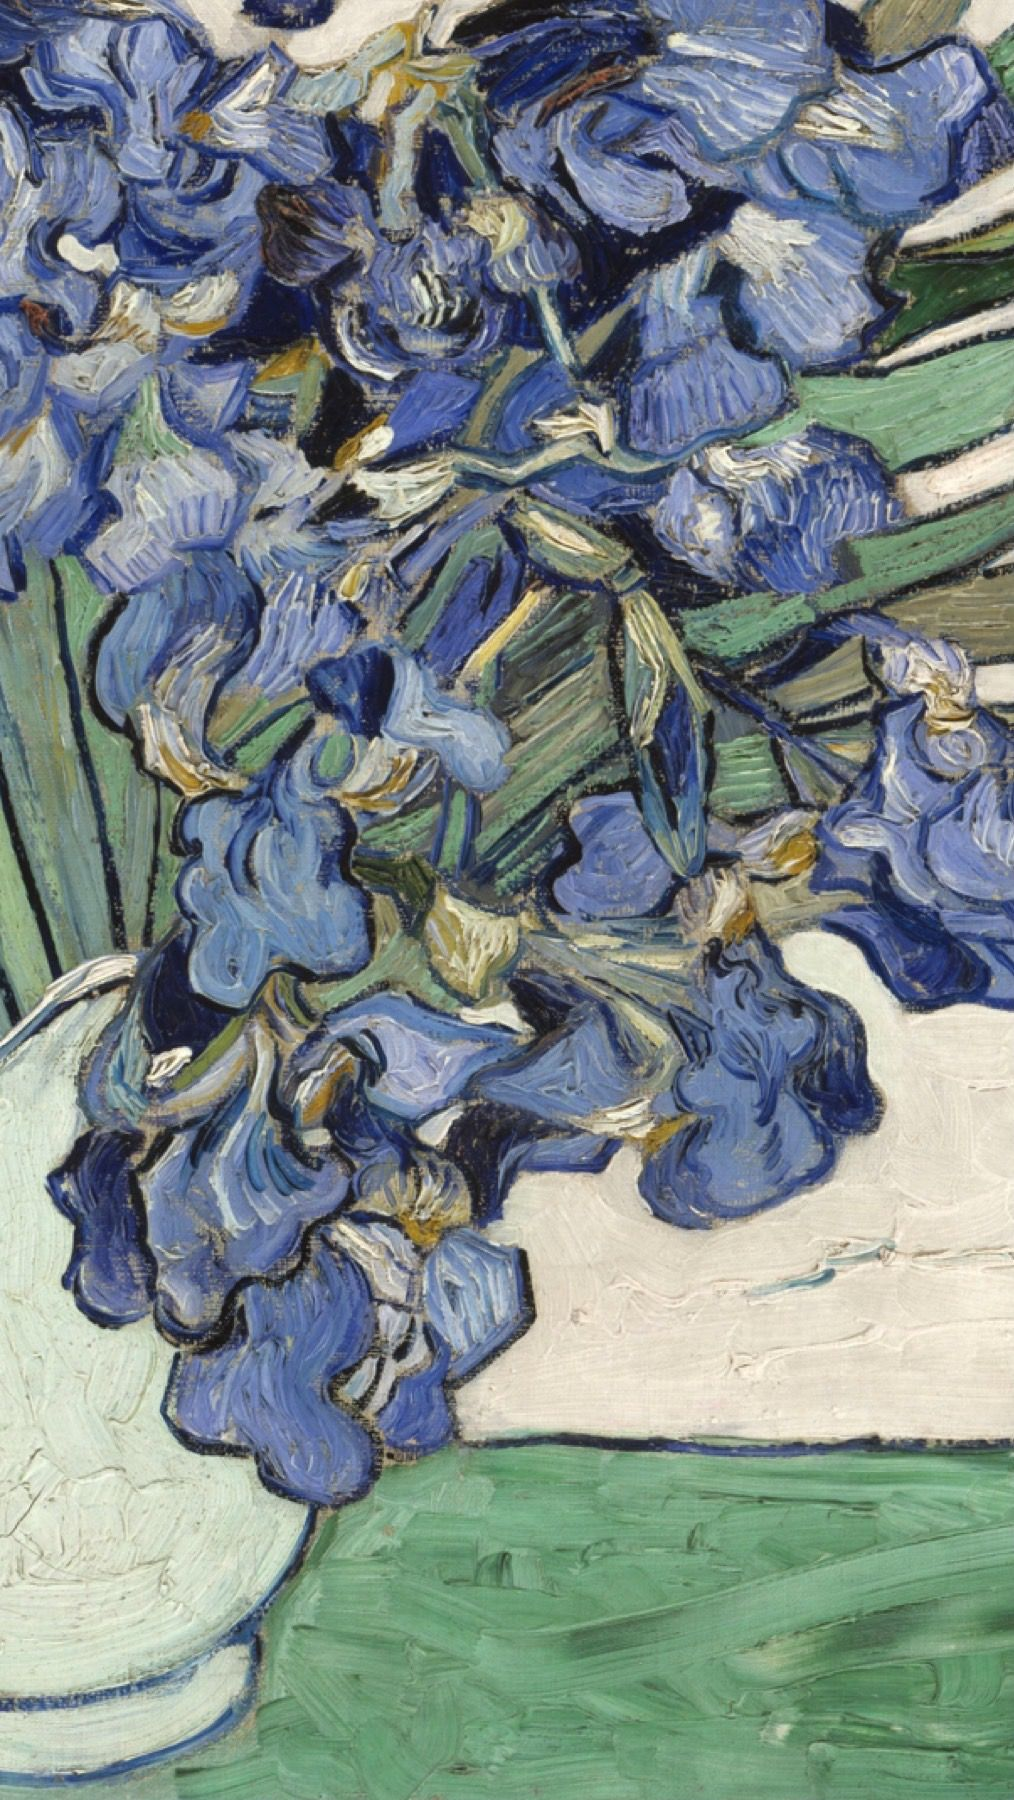
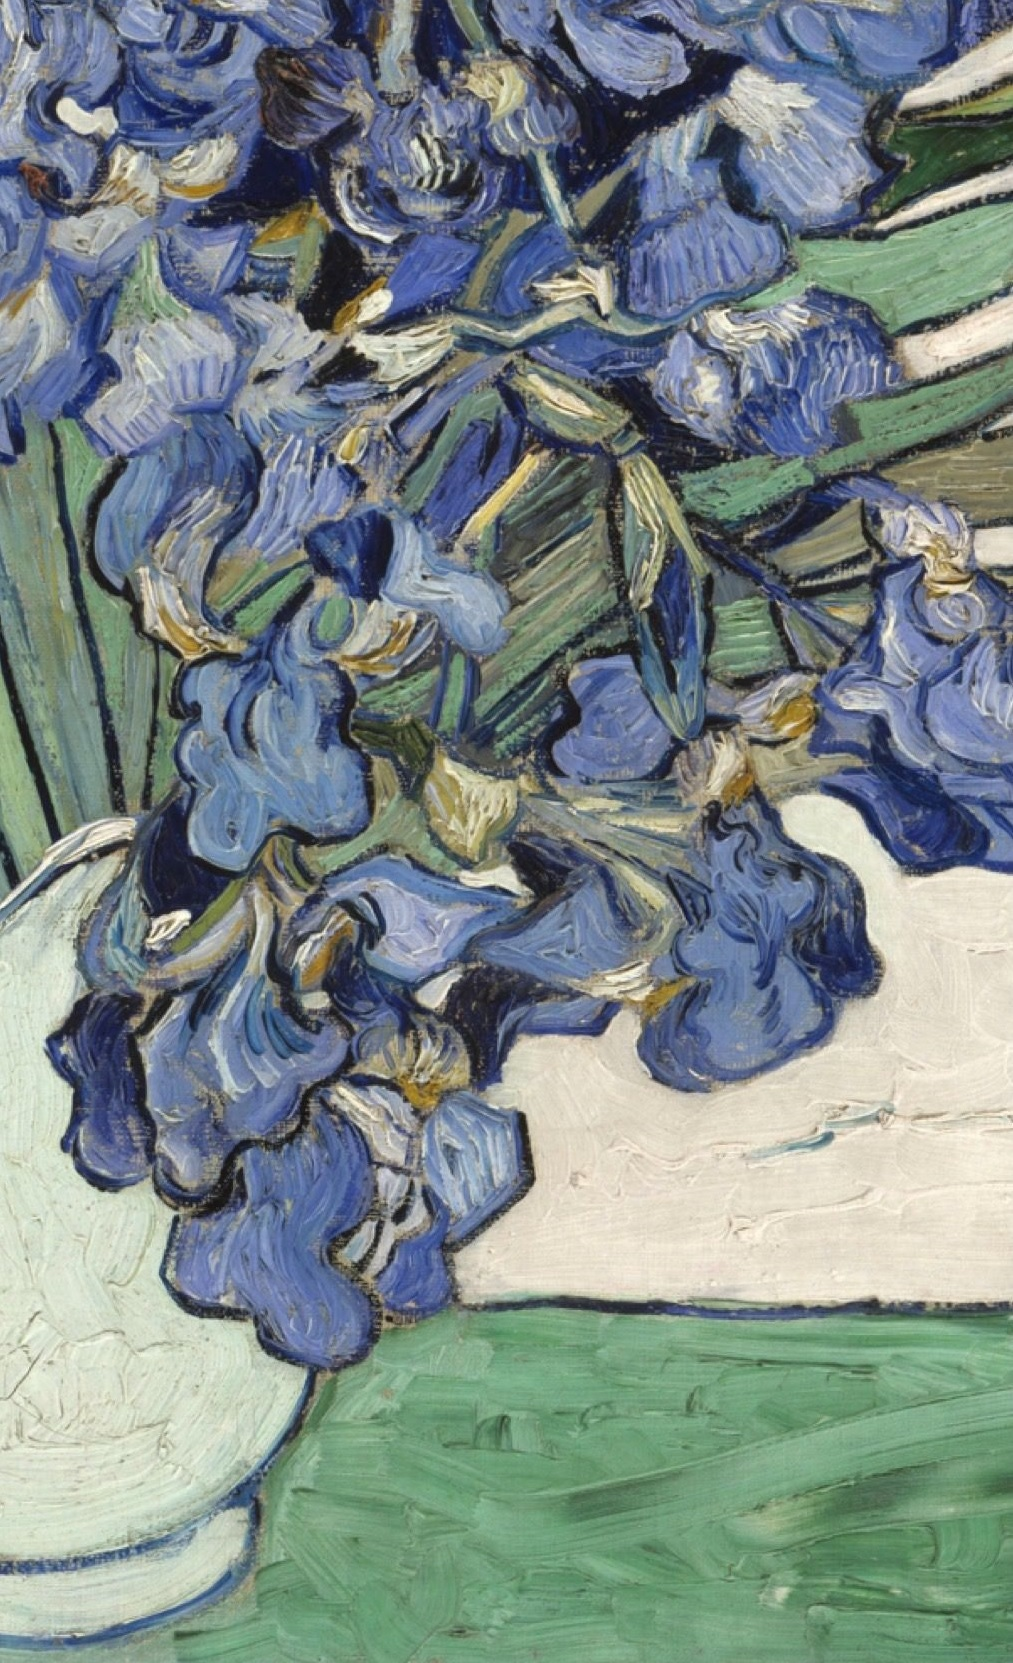
aggiunto recupera password

diff --git a/elemental/src/app/login/login-form/recupera-password/recupera-password.component.html b/elemental/src/app/login/login-form/recupera-password/recupera-password.component.html
@@ -1,0 +1,59 @@
+<section class="vh-100">
+  <div class="container py-3 h-100">
+    <div class="row d-flex justify-content-center align-items-center h-100">
+      <div class="col col-xl-10">
+        <div class="card" style="border-radius: 1rem;">
+          <div class="row g-0">
+            <div class="col-md-6 col-lg-5 d-none d-md-block">
+              <!--              <img src="https://mdbcdn.b-cdn.net/img/Photos/new-templates/bootstrap-login-form/img1.webp"-->
+              <img src="../../../assets/vangogh-2.jpg"
+                   alt="login form" class="imgLogin" style="border-radius: 1rem 0 0 1rem;" />
+            </div>
+            <div class="col-md-6 col-lg-7 d-flex align-items-center">
+              <div class="card-body p-4 p-lg-5 text-black">
+
+                <form [formGroup]="recuperaForm" (ngSubmit)="onSubmit()">
+
+                  <!--                  <div class="d-flex align-items-center mb-3 pb-1">-->
+                  <div class="d-flex align-items-center mb-3 pb-1">
+                    <img class="imgLogo" src="../../../assets/es3_nosf.png" alt="">
+                  </div>
+
+                  <h2 class="fw-normal mb-1 pb-1" style="letter-spacing: 1px;">Recupera password</h2>
+
+                  <div class="form-outline">
+                    <label class="form-label" for="email">Indirizzo email</label>
+                    <input type="email" id="email" class="form-control" formControlName="email"/>
+                  </div>
+
+                  <div class="form-outline mt-3 mb-4">
+                    <label class="form-label" for="password1">Nuova password</label>
+                    <input type="password" id="password1" class="form-control"  formControlName="password1"/>
+                  </div>
+
+                  <div class="form-outline mt-3 mb-4">
+                    <label class="form-label" for="password2">Conferma password</label>
+                    <input type="password" id="password2" class="form-control"  formControlName="password2"/>
+                  </div>
+
+                  <div class="pt-1 mb-4">
+                    <button class="btn btn-dark btn-lg btn-block" type="submit">Cambia password</button>
+                  </div>
+
+<!--                  <a class="small text-muted" (click)="passwordDimenticata()" style="cursor: pointer;">Password dimenticata?</a>-->
+<!--                  <p class="mb-5 pb-lg-2" style="color: #393f81;">Non hai un account?-->
+<!--                    <a (click)="redirectRegister()" style="color: #393f81; position: relative; left: 4%; cursor: pointer;">Registrati qui</a></p>-->
+
+<!--                  <a (click)="terminiAlert()" class="small text-muted" style="cursor: pointer;">Termini e Condizioni</a>-->
+<!--                  <a (click)="policyAlert()" class="small text-muted" style="position: relative; left: 5%; cursor: pointer;">Privacy policy</a>-->
+
+                </form>
+
+              </div>
+            </div>
+          </div>
+        </div>
+      </div>
+    </div>
+  </div>
+</section>

diff --git a/elemental/src/app/login/login-form/recupera-password/recupera-password.component.ts b/elemental/src/app/login/login-form/recupera-password/recupera-password.component.ts
@@ -1,0 +1,70 @@
+import { Component } from '@angular/core';
+import { FormGroup, FormControl } from '@angular/forms';
+import Swal from 'sweetalert2';
+import {Router} from "@angular/router";
+import {UserService} from "../../../../service/user.service";
+
+@Component({
+  selector: 'app-recupera-password',
+  templateUrl: './recupera-password.component.html',
+  styleUrls: ['./recupera-password.component.css']
+})
+export class RecuperaPasswordComponent {
+  recuperaForm: FormGroup;
+  // loginDTO: LoginDTO;
+
+  constructor(private userService: UserService, private router: Router) {
+    this.recuperaForm = new FormGroup({
+      email: new FormControl(''),
+      password1: new FormControl(''),
+      password2: new FormControl('')
+    });
+  }
+
+  ngOnInit() {
+  }
+
+  onSubmit() {
+    let email = this.recuperaForm.get('nome')?.value
+    let password1 = this.recuperaForm.get('password1')?.value
+    let password2 = this.recuperaForm.get('password2')?.value
+
+    if (password1 === password2 && password1 !== '' && email === '') {
+
+    } else {
+      Swal.fire({
+        icon: 'error',
+        title: 'Valori non validi',
+        text: 'I valori inseriti non sono validi. Riprova.'
+      });
+    }
+
+
+  }
+
+  terminiAlert() {
+    Swal.fire({
+      icon: 'info',
+      title: 'Termini e Condizioni',
+      text: 'Accedendo e utilizzando questa piattaforma, accetti di rispettare i seguenti Termini e Condizioni:\n\n1. Non violare i diritti di proprietà intellettuale altrui.\n2. Non diffondere contenuti offensivi, diffamatori o illegali.\n3. Rispettare la privacy degli altri utenti.\n4. Non utilizzare la piattaforma per scopi commerciali senza autorizzazione.\n5. Mantenere la sicurezza del tuo account e non condividere le tue credenziali di accesso.\n\nTi preghiamo di leggere attentamente i Termini e le Condizioni complete disponibili sul nostro sito web.',
+    });
+  }
+
+  policyAlert() {
+    Swal.fire({
+      icon: 'info',
+      title: 'Privacy Policy',
+      text: 'Privacy Policy.'
+    });
+  }
+
+  redirectRegister() {
+    this.router.navigate(['/register'])
+  }
+
+  passwordDimenticata() {
+
+  }
+
+
+}

diff --git a/elemental/src/app/register/register-form/register-form.component.ts b/elemental/src/app/register/register-form/register-form.component.ts
@@ -6,6 +6,7 @@ import Swal from 'sweetalert2';
 import {AnagDTO} from "../../../dto/anagdto";
 import {AnagService} from "../../../service/anag.service";
 import {LoginDTO} from "../../../dto/logindto";
+import {Router} from "@angular/router";
 
  @Component({
   selector: 'app-register-form',
@@ -16,7 +17,7 @@ export class RegisterFormComponent {
    registerForm: FormGroup;
   // loginDTO: LoginDTO;
 
-  constructor(private userService: UserService, private anagService: AnagService) {
+  constructor(private userService: UserService, private anagService: AnagService, private router: Router) {
     this.registerForm = new FormGroup({
       nome: new FormControl(''),
       cognome: new FormControl(''),
@@ -32,9 +33,6 @@ export class RegisterFormComponent {
   }
 
   onSubmit() {
-/*     const nome = this.loginForm.get('nome')?.value;
-
- */
     let nome = this.registerForm.get('nome')?.value
     let cognome = this.registerForm.get('cognome')?.value
     let dataNascita = this.registerForm.get('dataNascita')?.value
@@ -61,8 +59,6 @@ export class RegisterFormComponent {
         })
       });
     });
-
-
   }
 
    terminiAlert() {
@@ -79,6 +75,10 @@ export class RegisterFormComponent {
        title: 'Privacy Policy',
        text: 'Privacy Policy.'
      });
+   }
+
+   changePage() {
+     this.router.navigate(['/login'])
    }
 
 }

diff --git a/elemental/src/app/login/login-form/login-form.component.html b/elemental/src/app/login/login-form/login-form.component.html
@@ -21,7 +21,7 @@
           <div class="row g-0">
             <div class="col-md-6 col-lg-5 d-none d-md-block">
 <!--              <img src="https://mdbcdn.b-cdn.net/img/Photos/new-templates/bootstrap-login-form/img1.webp"-->
-                  <img src="../../../assets/vangogh-2.jpg"
+                  <img src="../../../assets/vangogh-4.jpg"
                    alt="login form" class="imgLogin" style="border-radius: 1rem 0 0 1rem;" />
             </div>
             <div class="col-md-6 col-lg-7 d-flex align-items-center">
@@ -50,7 +50,9 @@
                     <button class="btn btn-dark btn-lg btn-block" type="submit">Login</button>
                   </div>
 
-                  <a class="small text-muted" href="#!">Password dimenticata?</a>
+                  <a class="small text-muted" [routerLink] = "['/recupera-password']" style="cursor: pointer;">Password dimenticata?</a>
+
+
                   <p class="mb-5 pb-lg-2" style="color: #393f81;">Non hai un account?
                     <a (click)="redirectRegister()" style="color: #393f81; position: relative; left: 4%; cursor: pointer;">Registrati qui</a></p>
 
@@ -67,3 +69,6 @@
     </div>
   </div>
 </section>
+
+<router-outlet></router-outlet>
+

diff --git a/elemental/src/app/app.module.ts b/elemental/src/app/app.module.ts
@@ -10,6 +10,7 @@ import { ReactiveFormsModule } from '@angular/forms';
 import {HttpClientModule} from "@angular/common/http";
 import { RegisterComponent } from './register/register.component';
 import {RegisterFormComponent} from "./register/register-form/register-form.component";
+import { RecuperaPasswordComponent } from './login/login-form/recupera-password/recupera-password.component';
 
 @NgModule({
   declarations: [
@@ -17,7 +18,8 @@ import {RegisterFormComponent} from "./register/register-form/register-form.comp
     LoginComponent,
     LoginFormComponent,
     RegisterComponent,
-    RegisterFormComponent
+    RegisterFormComponent,
+    RecuperaPasswordComponent
   ],
   imports: [
     BrowserModule,

diff --git a/elemental/src/app/app-routing.module.ts b/elemental/src/app/app-routing.module.ts
@@ -2,9 +2,11 @@ import { NgModule } from '@angular/core';
 import { RouterModule, Routes } from '@angular/router';
 import { LoginComponent } from './login/login.component';
 import {RegisterComponent} from "./register/register.component";
+import {RecuperaPasswordComponent} from "./login/login-form/recupera-password/recupera-password.component";
 
 const routes: Routes = [
   {path: 'login', component: LoginComponent},
+  {path: 'recupera-password', component: RecuperaPasswordComponent},
   {path: '', redirectTo: 'login', pathMatch: 'full'},
   {path: 'register', component: RegisterComponent}
 ];

diff --git a/elemental/src/app/register/register-form/register-form.component.html b/elemental/src/app/register/register-form/register-form.component.html
@@ -15,7 +15,7 @@
 
 <!--                  <div class="d-flex align-items-center mb-3 pb-1">-->
                   <div class="d-flex align-items-center mb-3 pb-1">
-                    <img class="imgLogo" src="../../../assets/es3_nosf.png" alt="">
+                    <img (click)="changePage()" class="imgLogo" src="../../../assets/es3_nosf.png" alt="">
                   </div>
 
                   <h2 class="fw-normal mb-1 pb-1" style="letter-spacing: 1px;">Registrati</h2>

diff --git a/elemental/src/app/login/login-form/login-form.component.ts b/elemental/src/app/login/login-form/login-form.component.ts
@@ -67,5 +67,9 @@ export class LoginFormComponent {
       this.router.navigate(['/register'])
    }
 
+   passwordDimenticata() {
+     this.router.navigate(['/login/recupera-password'])
+   }
+
 
 }

diff --git a/elemental/src/app/login/login-form/recupera-password/recupera-password.component.css b/elemental/src/app/login/login-form/recupera-password/recupera-password.component.css
@@ -1,7 +1,6 @@
 .imgLogo {
   width: 200px;
   height: 40px;
-  cursor: pointer;
 }
 
 .imgLogin {
